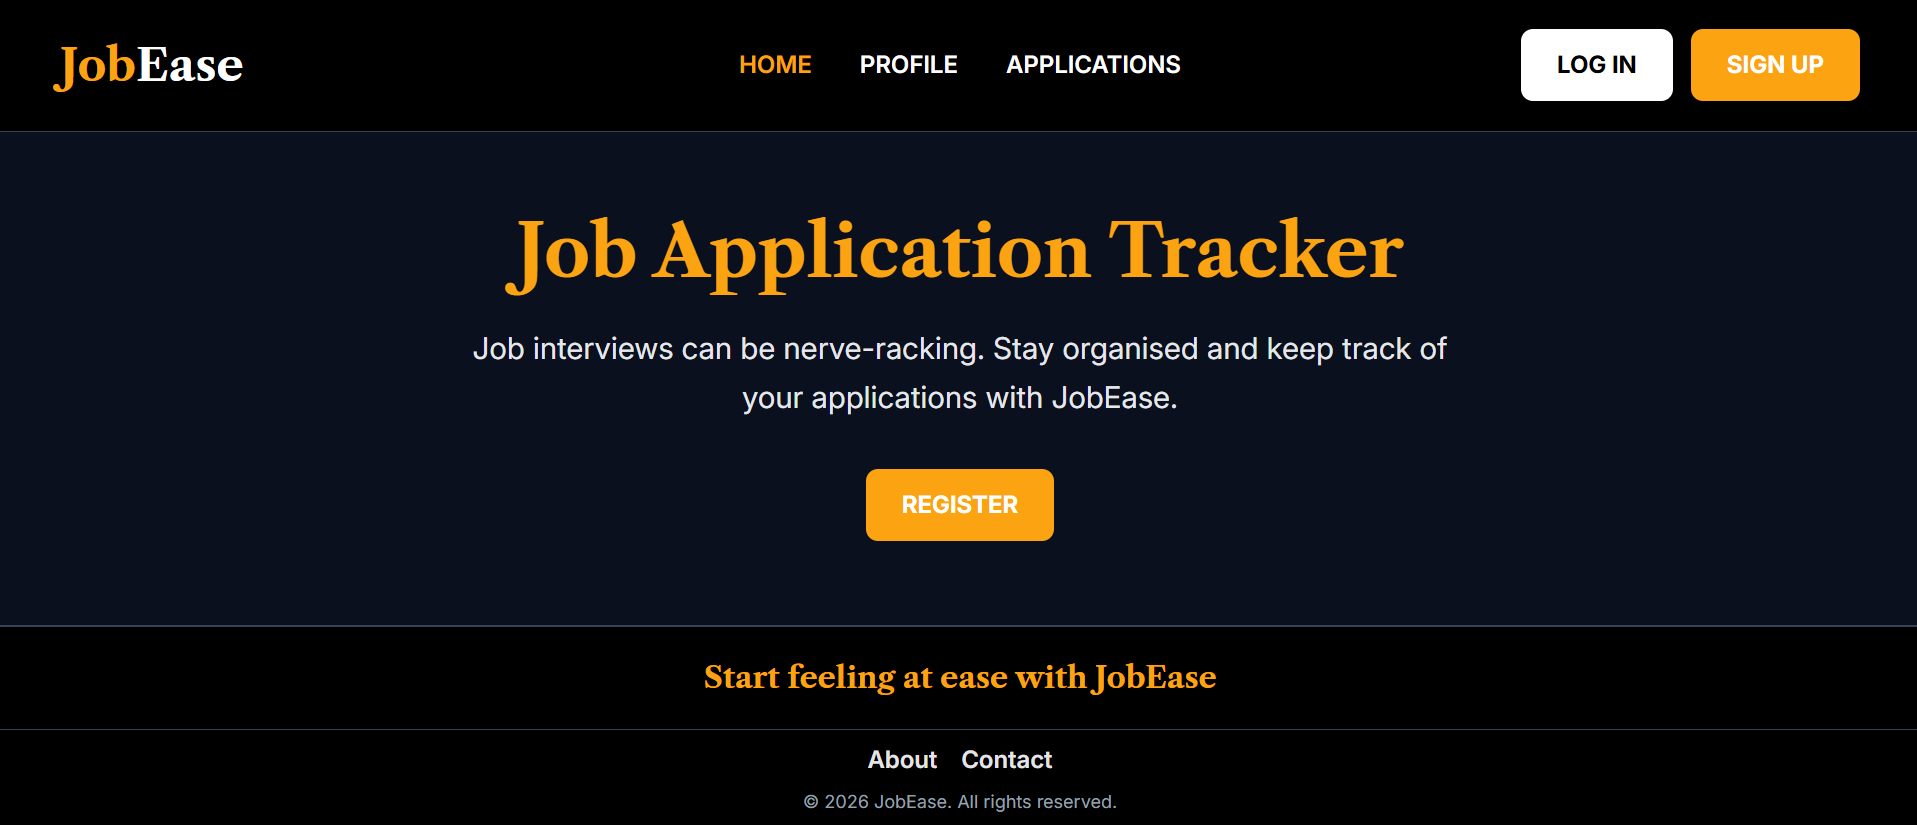
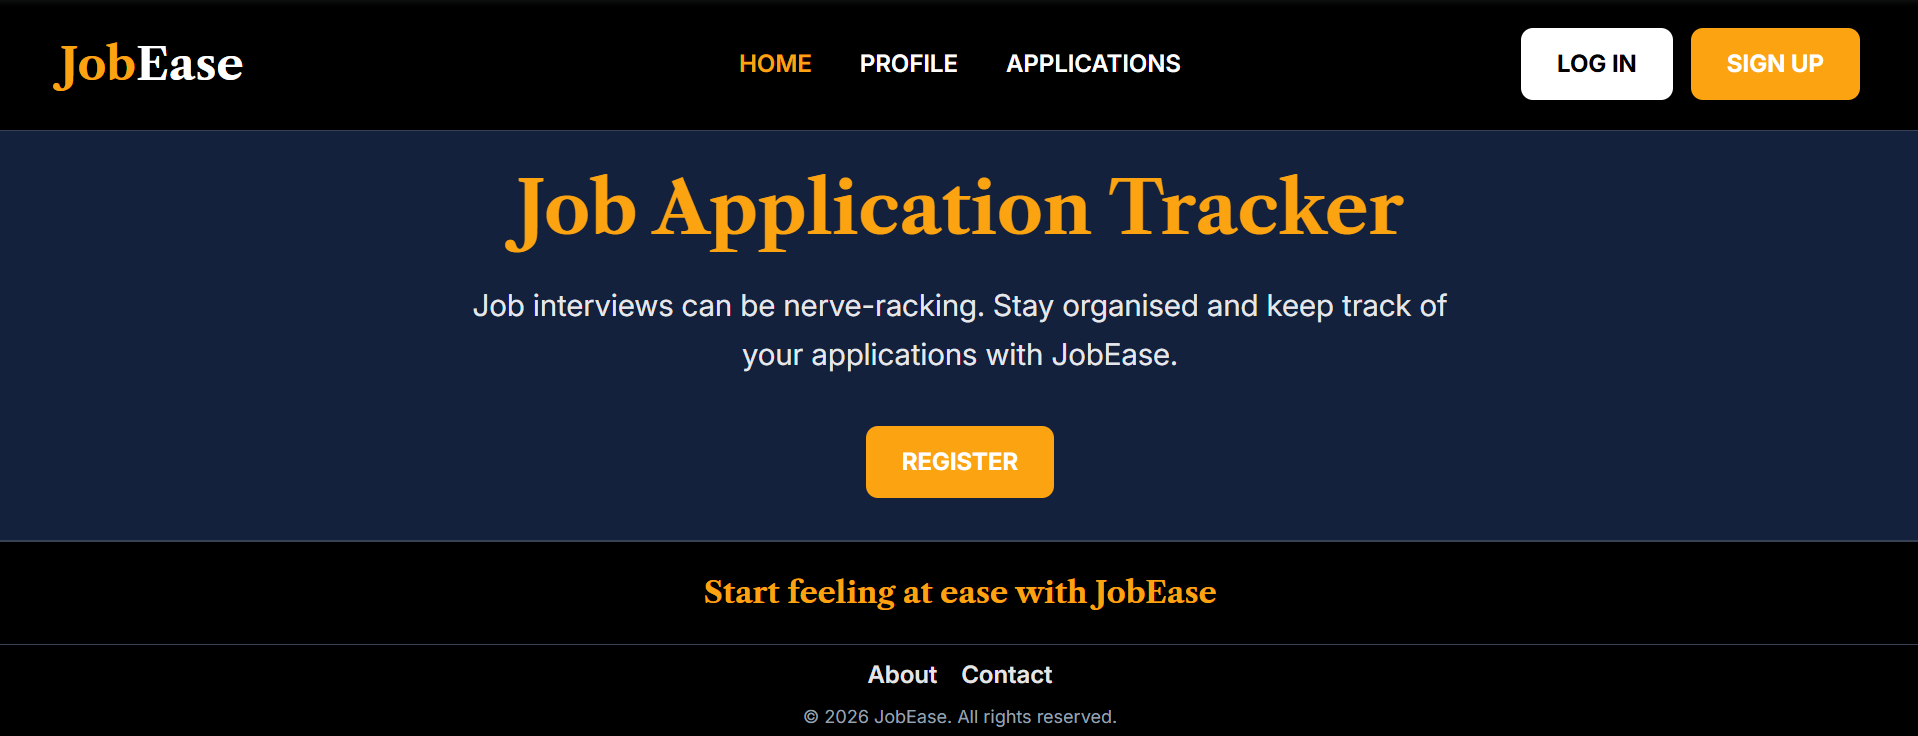
home page background corrected and screenshot updated

diff --git a/frontend/src/Pages/Home.jsx b/frontend/src/Pages/Home.jsx
@@ -6,8 +6,6 @@ const Home = () => {
     <>
       {/* Hero */}
       <section className="relative flex h-full min-h-0 items-center justify-center bg-(--navy-blue)">
-        <div className="absolute inset-0 bg-black/50" />
-
         <div className="relative z-10 max-w-3xl px-6 text-center">
           <h1 className="mb-6 font-headings text-4xl font-bold text-(--yellow) md:text-5xl">
             Job Application Tracker
